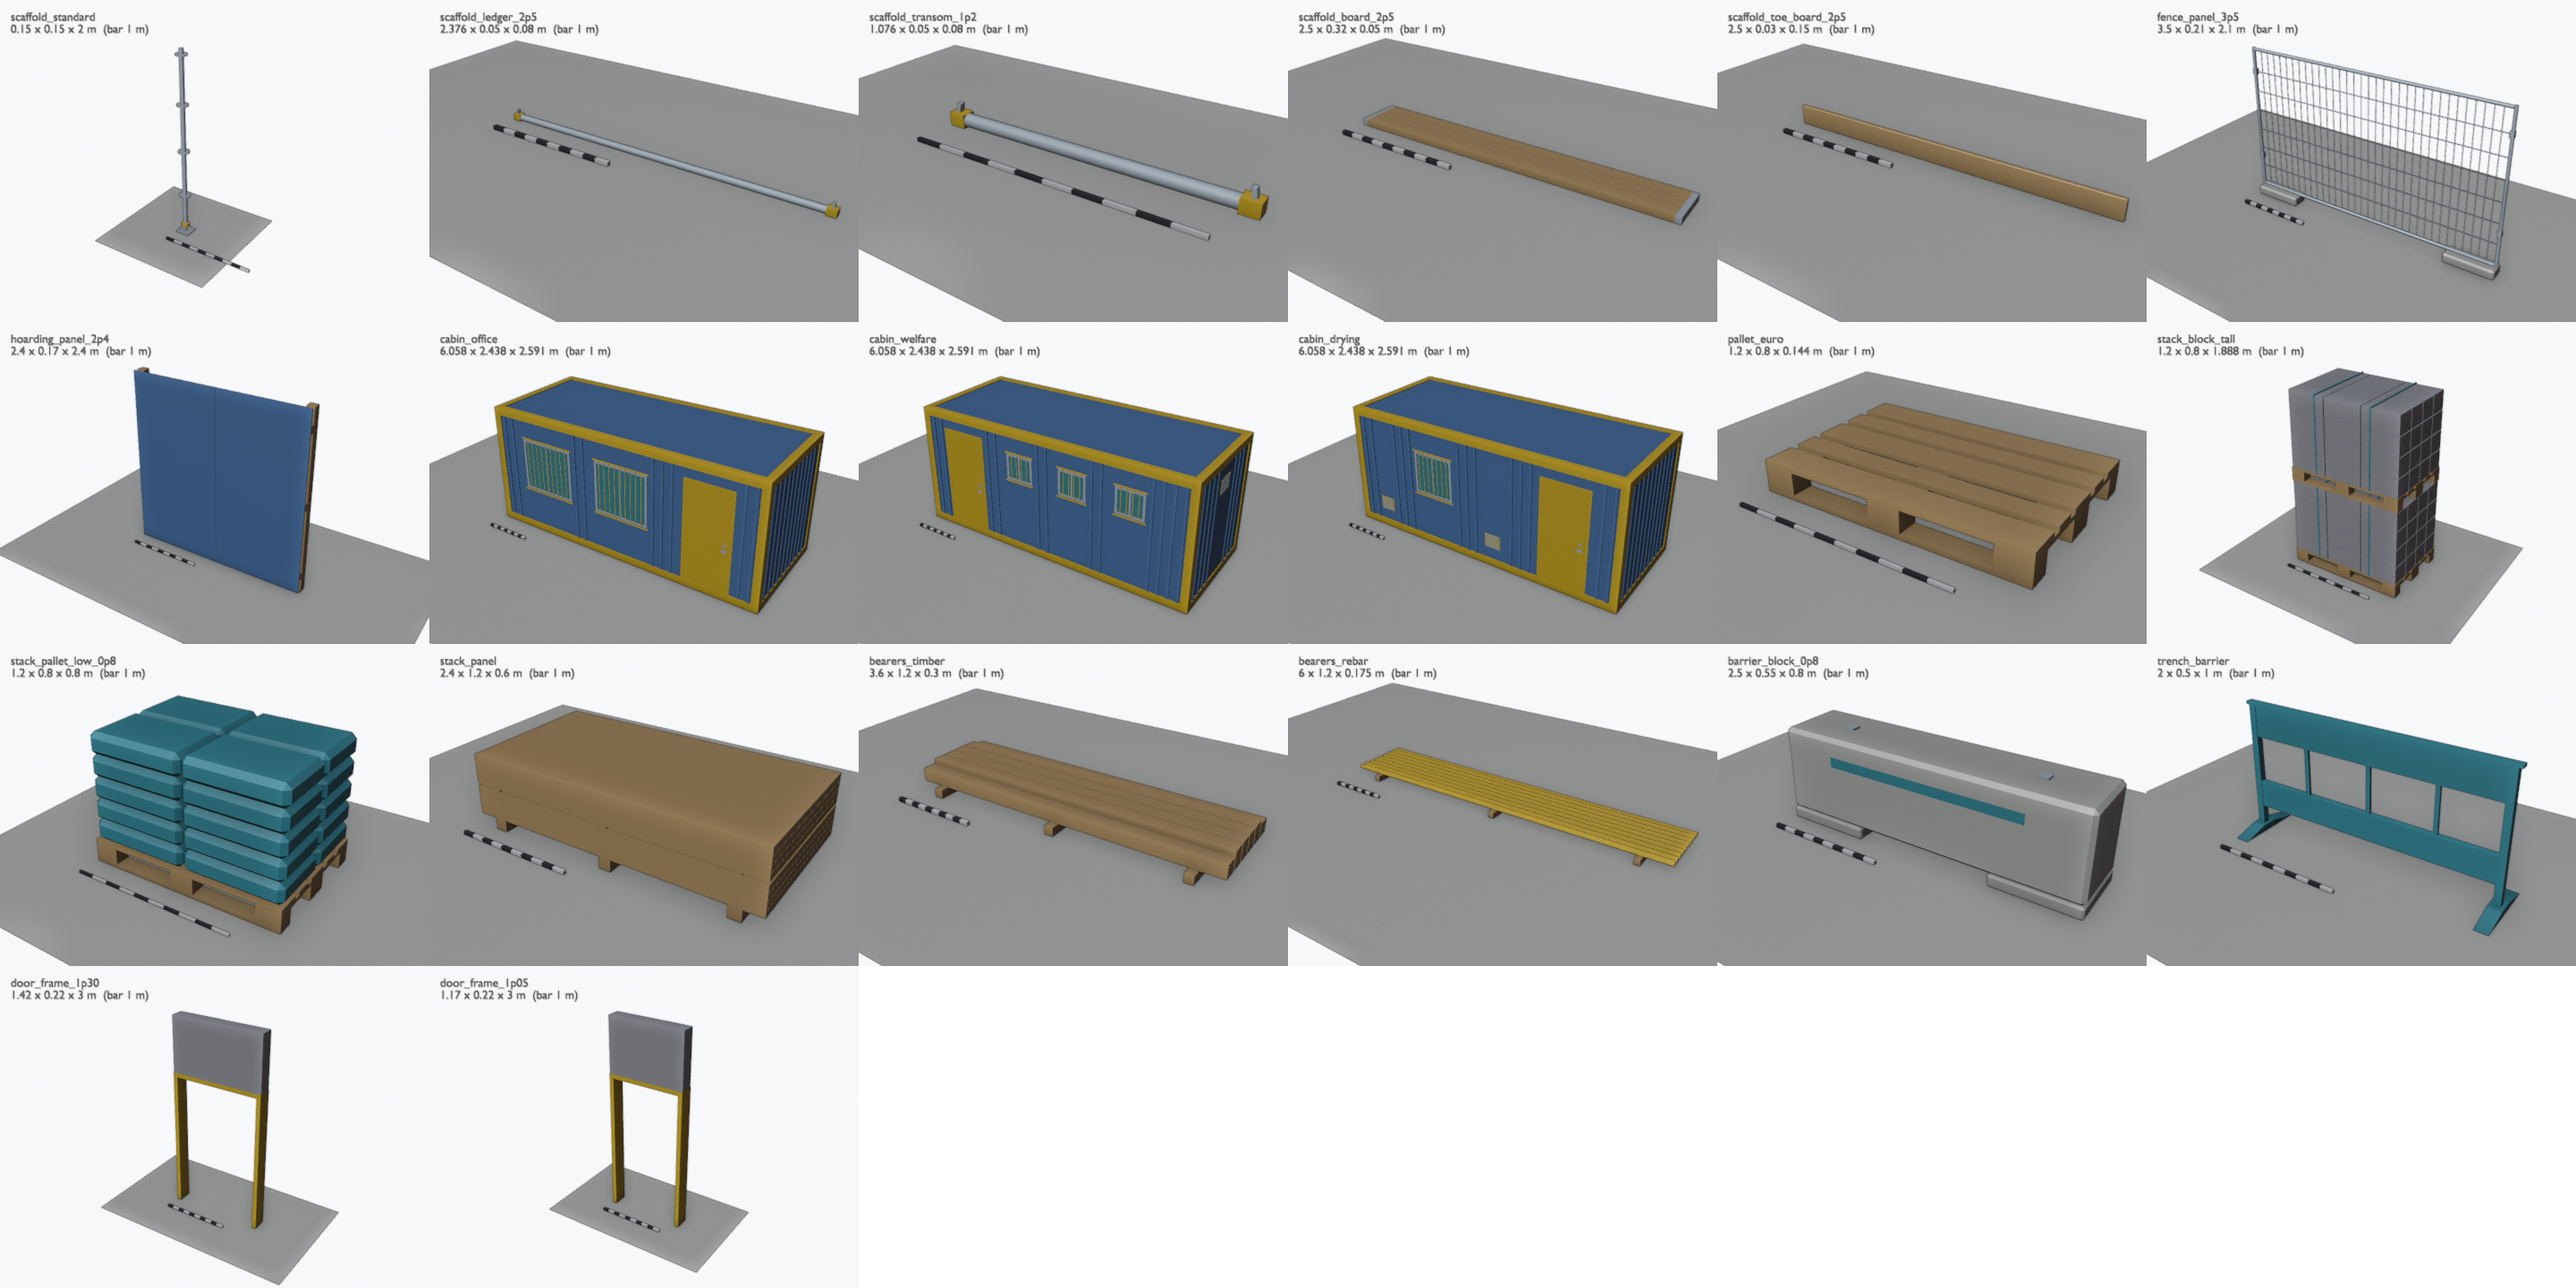
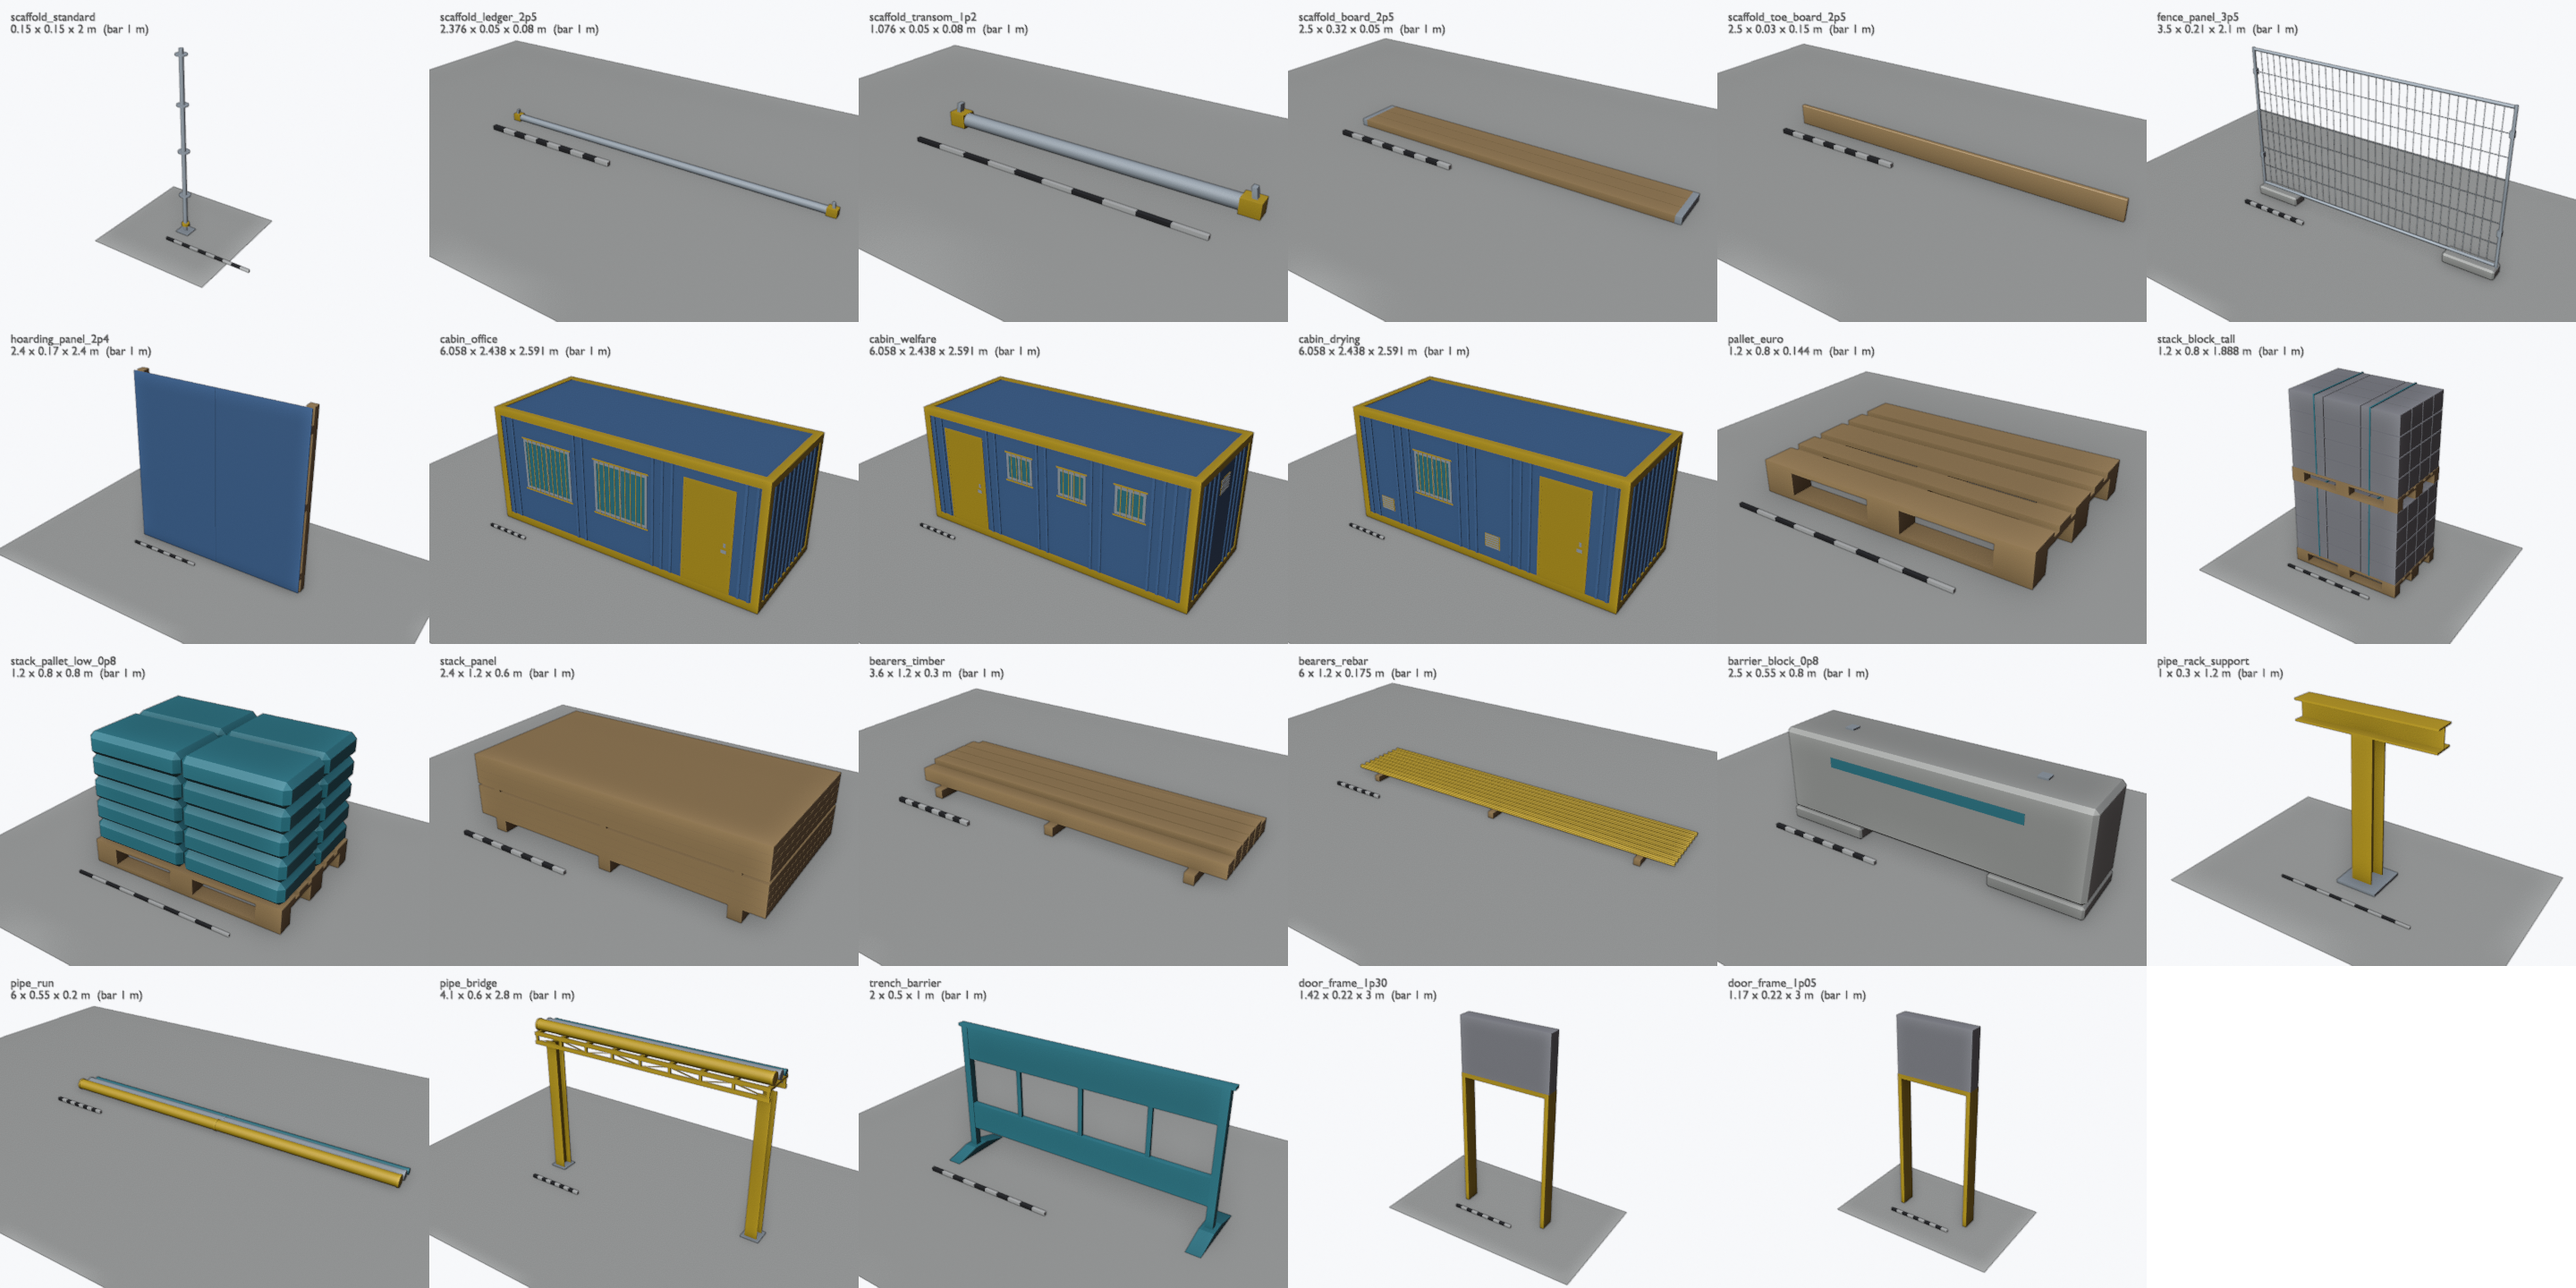
Add the pipe_rack kit pieces

diff --git a/tools/blender/site_kit/pipe_rack.py b/tools/blender/site_kit/pipe_rack.py
@@ -1,0 +1,90 @@
+"""Pipe rack family: T-supports, the pipe run they carry and the H3 pipe bridge.
+
+T-support: base plate, an H-section post and an H-section arm (along x) whose top carries the
+pipe run at 1.2 m. Pipe run: three pipes along x (0.2, 0.15 and 0.1 m), bottoms on z = 0,
+with flanges at the ends and the middle; parametric along x. Pipe bridge: two H-section posts
+on base plates carrying a truss deck whose bottom is the H3 height from the kit spec, with
+the same three pipes on top; the clear span between the posts is 3.6 m.
+"""
+from common import Mesh
+
+PIPES = ((-0.175, 0.1, "painted_steel"), (0.05, 0.075, "galvanized_steel"), (0.225, 0.05, "plastic"))
+FLANGE = 0.03
+PLATE_T = 0.015
+
+
+def h_column(m, x0, x1, y0, y1, z0, z1, flange=0.012, web=0.008):
+    """H-section post along z, flanges normal to y."""
+    xc = (x0 + x1) / 2
+    m.box((x0, y0, z0), (x1, y0 + flange, z1), "painted_steel")
+    m.box((x0, y1 - flange, z0), (x1, y1, z1), "painted_steel")
+    m.box((xc - web / 2, y0 + flange, z0), (xc + web / 2, y1 - flange, z1), "painted_steel")
+
+
+def h_beam_x(m, x0, x1, y0, y1, z0, z1, flange=0.012, web=0.008):
+    """H-section beam along x, flanges top and bottom."""
+    yc = (y0 + y1) / 2
+    m.box((x0, y0, z0), (x1, y1, z0 + flange), "painted_steel")
+    m.box((x0, y0, z1 - flange), (x1, y1, z1), "painted_steel")
+    m.box((x0, yc - web / 2, z0 + flange), (x1, yc + web / 2, z1 - flange), "painted_steel")
+
+
+def pipes(m, x0, x1, z, flange_xs):
+    for yc, r, material in PIPES:
+        body = 0.92 * r
+        m.cylinder((x0, yc, z + r), (x1, yc, z + r), body, material, sides=16 if r > 0.06 else 12)
+        for xf in flange_xs:
+            a, b = max(x0, xf - FLANGE / 2), min(x1, xf + FLANGE / 2)
+            m.cylinder((a, yc, z + r), (b, yc, z + r), r, material, sides=16 if r > 0.06 else 12)
+
+
+def support(piece, kit):
+    lx, ly, h = piece["size"]
+    post, arm_h = 0.15, 0.15
+    m = Mesh()
+    m.box((-ly / 2, -ly / 2, 0.0), (ly / 2, ly / 2, PLATE_T + 0.005), "galvanized_steel")
+    h_column(m, -post / 2, post / 2, -post / 2, post / 2, PLATE_T + 0.005, h - arm_h)
+    h_beam_x(m, -lx / 2, lx / 2, -post / 2, post / 2, h - arm_h, h)
+    return m
+
+
+def pipe_run(piece, kit):
+    lx, _, _ = piece["size"]
+    m = Mesh()
+    pipes(m, -lx / 2, lx / 2, 0.0, (-lx / 2 + FLANGE / 2, 0.0, lx / 2 - FLANGE / 2))
+    return m
+
+
+def bridge(piece, kit):
+    lx, ly, h = piece["size"]
+    deck_bottom = kit["overhead"]["h3_bottom_m"]
+    deck_top = deck_bottom + 0.2
+    hx, post, plate = lx / 2, 0.2, 0.3
+    m = Mesh()
+    for side in (-1, 1):
+        xc = side * (hx - plate / 2)
+        m.box((xc - plate / 2, -plate / 2, 0.0), (xc + plate / 2, plate / 2, PLATE_T), "galvanized_steel")
+        h_column(m, xc - post / 2, xc + post / 2, -post / 2, post / 2, PLATE_T, deck_bottom, flange=0.015, web=0.01)
+    chord = 0.05
+    for side in (-1, 1):
+        y0, y1 = sorted((side * ly / 2, side * (ly / 2 - chord)))
+        m.box((-hx, y0, deck_bottom), (hx, y1, deck_bottom + chord), "painted_steel")
+        m.box((-hx, y0, deck_top - chord), (hx, y1, deck_top), "painted_steel")
+        panels = 8
+        for k in range(panels + 1):
+            x = -hx + 0.03 + (lx - 0.06) * k / panels
+            m.box((x - 0.02, y0 + 0.01, deck_bottom + chord), (x + 0.02, y1 - 0.01, deck_top - chord), "painted_steel")
+            if k < panels:
+                xn = -hx + 0.03 + (lx - 0.06) * (k + 1) / panels
+                a, b = (x, xn) if k % 2 == 0 else (xn, x)
+                lo_z, hi_z = deck_bottom + chord, deck_top - chord
+                m.hexa([(x_, y, z) for z, (p, q) in ((lo_z, (a - 0.015, a + 0.015)), (hi_z, (b - 0.015, b + 0.015)))
+                        for y in (y0 + 0.015, y1 - 0.015) for x_ in (p, q)], "painted_steel")
+    for k in range(9):
+        x = -hx + 0.03 + (lx - 0.06) * k / 8
+        m.box((x - 0.03, -ly / 2 + chord, deck_top - 0.04), (x + 0.03, ly / 2 - chord, deck_top), "painted_steel")
+    pipes(m, -hx, hx, deck_top, (-hx + FLANGE / 2, hx - FLANGE / 2))
+    return m
+
+
+BUILDERS = {"pipe_rack_support": support, "pipe_run": pipe_run, "pipe_bridge": bridge}
